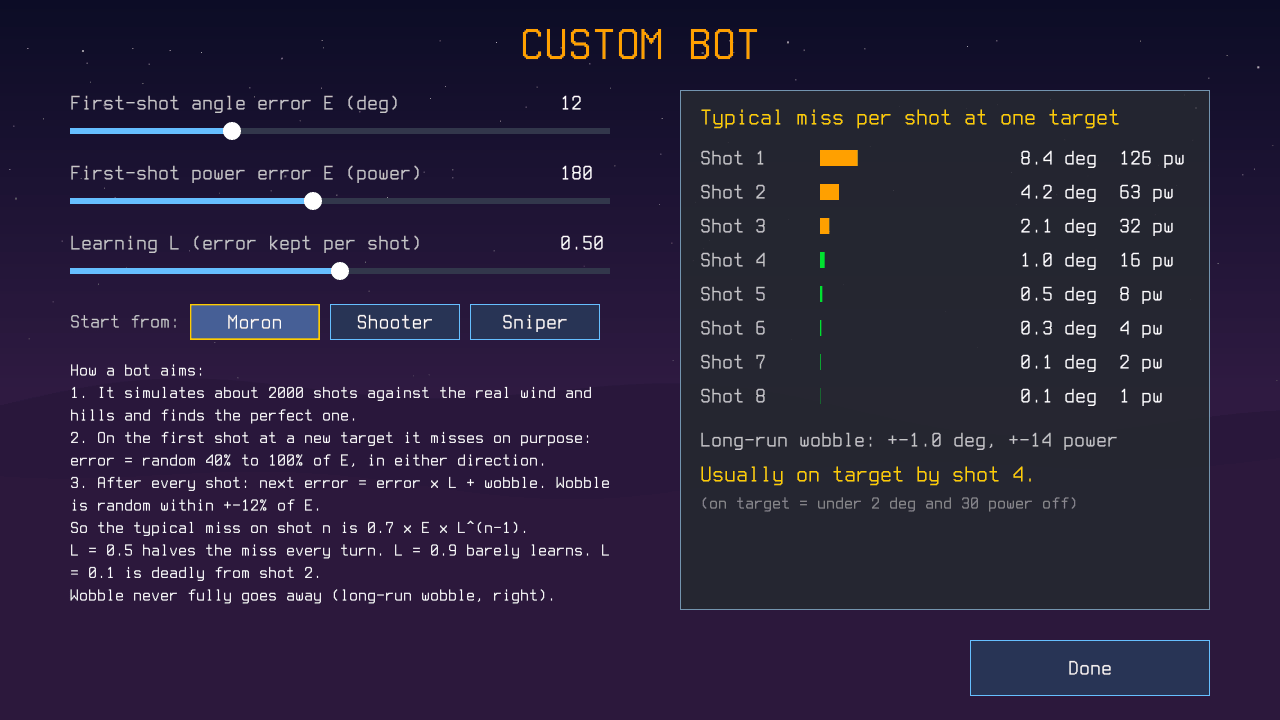
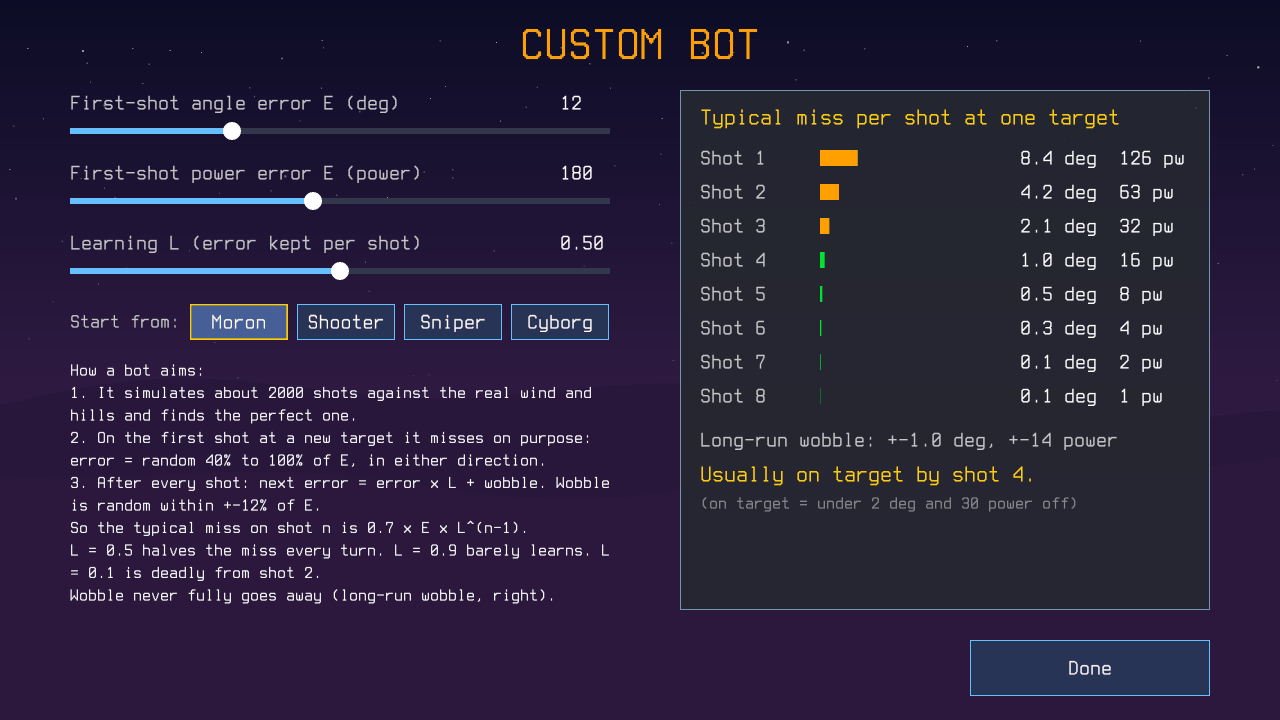
docs(readme): retake the screenshots for 0.9.0
The shop shows the batteries and guidance, the setup screen the new
difficulty note, the custom bot editor its fourth starting point.

A screenshot run (--shot) now ignores the pointer, so nothing is
highlighted by where it happens to be.

Changed region(s): [[0.1562, 0.3972, 0.5, 0.4889]]

diff --git a/src/ui.rs b/src/ui.rs
@@ -92,6 +92,9 @@ pub fn measure(text: impl AsRef<str>, size: f32) -> TextDimensions {
 
 /// Mouse position in virtual screen coordinates.
 pub fn mouse() -> Vec2 {
+    if !POINTER.get() {
+        return vec2(-1000.0, -1000.0);
+    }
     let (x, y) = mouse_position();
     camera().screen_to_world(vec2(x, y))
 }
@@ -158,6 +161,14 @@ thread_local! {
     static NAV: RefCell<Nav> = RefCell::new(Nav::default());
     /// A menu key pressed for this frame by `--keys` (a developer aid), as if on the keyboard.
     static SCRIPTED: Cell<Option<KeyCode>> = const { Cell::new(None) };
+    /// Off for screenshots (`ignore_pointer`).
+    static POINTER: Cell<bool> = const { Cell::new(true) };
+}
+
+/// For a screenshot (`--shot`): the pointer counts as off the screen, so a shot looks the same wherever the pointer
+/// happens to be (a window manager may put it in the middle of a new window, over a button).
+pub fn ignore_pointer() {
+    POINTER.set(false);
 }
 
 /// Presses `key` in the menus for the frame about to start (`--keys`).

diff --git a/src/game.rs b/src/game.rs
@@ -596,6 +596,9 @@ pub async fn run() {
     }
     // With `--shot <file.png>`, save a screenshot after a moment and quit.
     let shot = arg_after("--shot");
+    if shot.is_some() {
+        ui::ignore_pointer();
+    }
     if game.profile.settings.check_updates == Some(true) {
         game.updater.check();
     }

diff --git a/docs/DEVELOPMENT.md b/docs/DEVELOPMENT.md
@@ -56,7 +56,7 @@ Command line options:
 | `--crash-test` | Crash on purpose, to check crash reports |
 | `--update` | Check for a new version and install it from the command line (same checks as the menu) |
 | `--screen <name>` | Open one screen directly with a fresh game: intro, menu, about, setup, custom, settings, pause-settings (settings opened from the pause menu), stats, crash, unreadable (the notice about a save file that couldn't be read), battle, pause, watch (you flee and the bots play the round out, with sound), over (a round just won), defence (every tank with a shield), guidance (your turn with Vertical guidance on), buried (a Dirt Bomb on every tank), arsenal (every tank with every weapon), log, shop, abandon, new-game (the warning before replacing a saved game), final. Saving is off. |
-| `--shot <file.png>` | With `--screen`: save a screenshot after a moment and quit. The name must end in `.png` and its folder must exist, or the game says so and exits with status 2 before opening the window |
+| `--shot <file.png>` | With `--screen`: save a screenshot after a moment and quit. The pointer is ignored, so nothing is highlighted by where it happens to be. The name must end in `.png` and its folder must exist, or the game says so and exits with status 2 before opening the window |
 | `--keys <keys>` | With `--screen`: press menu keys before the screenshot, one every 4 frames: a comma-separated list of up, down, left, right, enter (`--screen shop --keys down,down,right --shot shop.png`) |
 
 Self-update is off in development builds (`make run`, versions with `+`), so its question, setting and About button are
